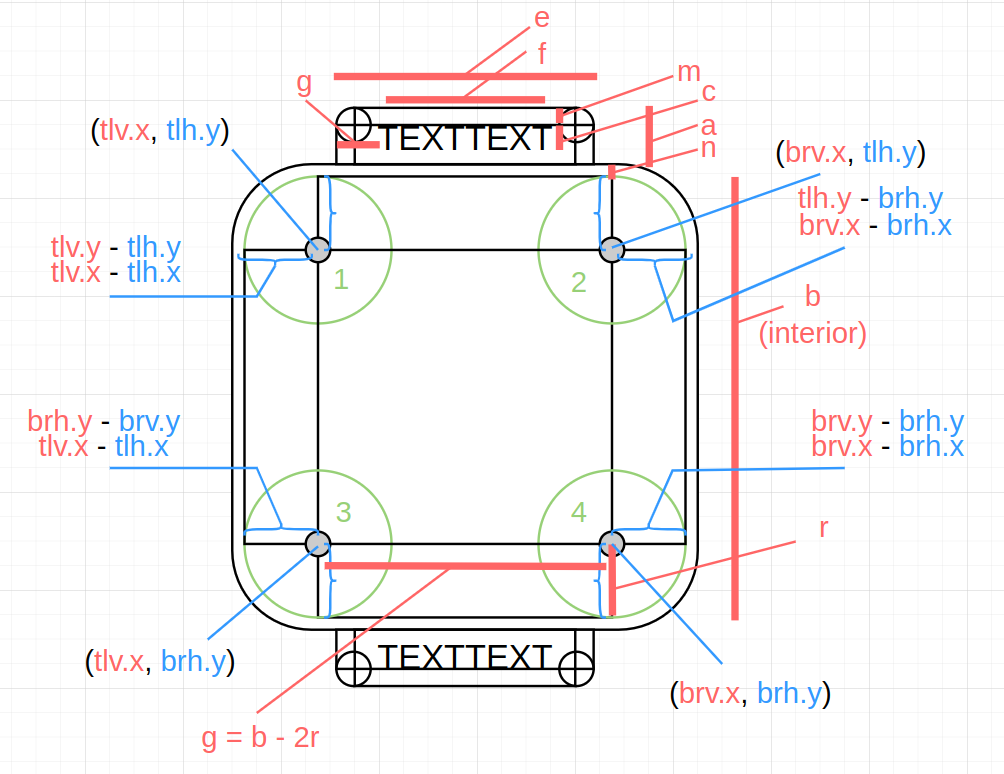
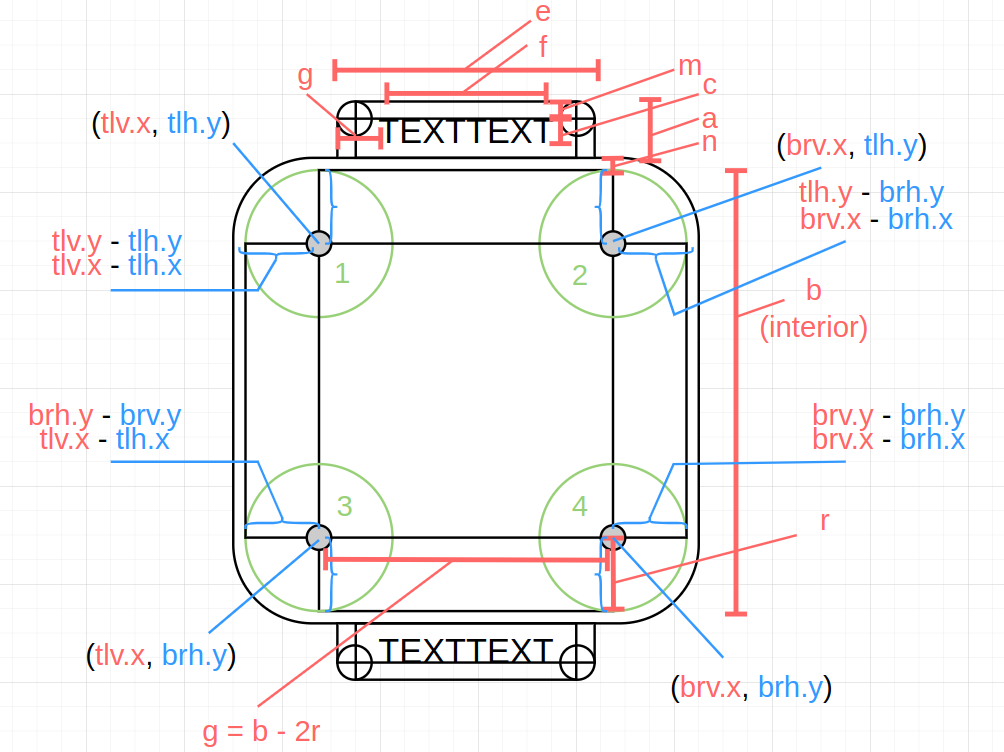
update

diff --git a/_posts/2023-08-21-coding-letters-on-a-path.md b/_posts/2023-08-21-coding-letters-on-a-path.md
@@ -105,3 +105,29 @@ Since, we mentioned `n`, it's important to define the full scheme from which the
 
 Then, the next step is to call `imageFilledCircledRect(\GdImage $image, int $color, array $verticalRectCoords, array $horizontalRectCoords, array $circleCenters, array $circleRadii)` two times in order to create the two circled rectangles that we frame needs, one in the foreground color (ie black) and the background color (ie white). By changing the **size of the radii** and moving the **top left and bottom right corners**, we can keep the **same circle centers** in *both* circled rectangles.
 
+Now the letter placing algorithm can be defined. The first thing to point out is the **sections**: there are 8 as a total, where 4 are **straight sections (orange)** and 4 are **circled sections (green)**.
+
+![img]({{site.url}}/img/12/9.png)
+
+The general notion is that, in a loop (a while loop), each letter is placed in the *beginning* of each iteration with `imagettftext(\GdImage $image, int $size, int $angle, int $x, int $y, int $color, <FONT_PATH>, string $text)`, and therefore, a coordinate point where the current letter is written must be computed in all iterations. The *beginning* of each iteration writes a letter. Therefore, we must *initialize the start coordinate*, so that in the first iteration it is used, and from that point on, at the *end* of the iterations in the loop, right before moving onto the next, the *next coordinate point* is computed.
+
+How do we perform the computation of the next coordinate point where a letter must be placed? Let $w$ be the letter width in pixels and $y$ the letter separation gap, also in pixels. The $\Delta_p$ then is the change in position that each iteration signifies, but $\Delta_p$ changes depending on the type of section you are currently in.  For **straight sections**, $\Delta_p = w + y$, but for **circled sections**, the idea of $\Delta_p$ morphs to $\Delta_a$ or change in *angle*. The position $(x, y)$ is not accumulated in this sections, and what is accumulated is the angle.
+
+$$
+x = Cx_i + width_i \cdot cos(\theta_j) \\
+y = Cy_i + height_i \cdot \sin(\theta_j)
+$$
+
+where
+
+$$
+\theta_j = \theta_{j - 1} + \Delta_a
+$$
+
+and $i$ refers to the current circle (from a total of 4), $Cx$ and $Cy$ refer to the corresponding x and y values of the coordinate points that make up the 4 known circles' centers, and $j$ would represent the current iteration in the while loop. Then, the computation of $\Delta_a$ is defined as:
+
+$$
+\Delta_a = |tan^{-1}\left(\frac{y}{width_i}\right)| + |tan^{-1}\left(\frac{w}{width_i}\right)|
+$$
+
+This definition can be best explained with the diagram below.
